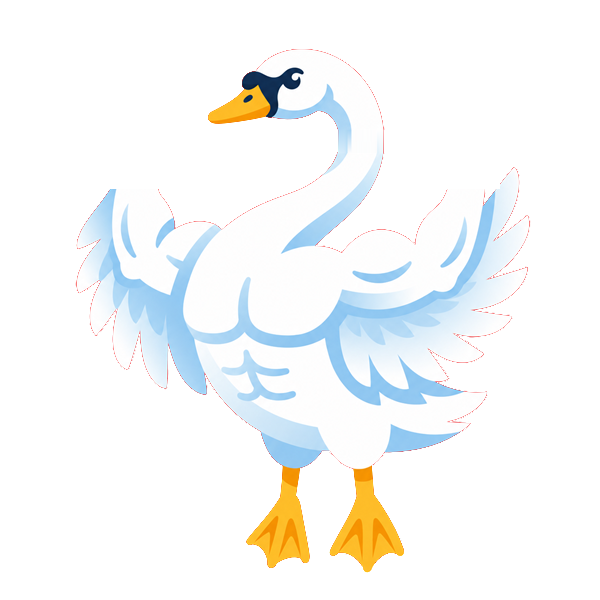
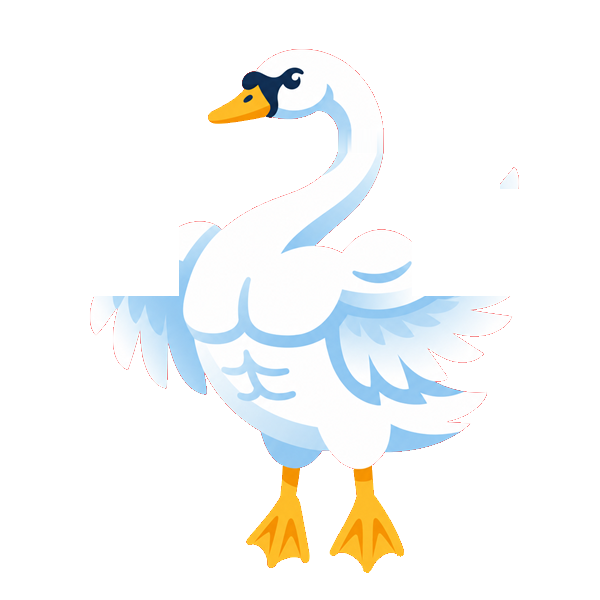
Swan-Klimmzug: Arme beugen sich (eigene Ebenen), sauberere Kanten an den Faeusten

Changed region(s): [[0.12, 0.3, 0.3, 0.51], [0.72, 0.3, 0.84, 0.51], [0.27, 0.36, 0.3, 0.39]]

diff --git a/css/styles.css b/css/styles.css
@@ -1252,18 +1252,46 @@ h2 {
     height: auto;
 }
 
+.art-swan-calisthenics .layer-swan-arm-left {
+    transform-origin: 23.5% 31.5%;
+}
+
+.art-swan-calisthenics .layer-swan-arm-right {
+    transform-origin: 77% 31.5%;
+}
+
+.project-card:hover .art-swan-calisthenics .art-layer,
+.detail-art:hover .art-swan-calisthenics .art-layer,
+.art-swan-calisthenics.is-playing .art-layer {
+    animation: 1.8s ease-in-out infinite;
+}
+
 .project-card:hover .art-swan-calisthenics .layer-swan-body,
 .detail-art:hover .art-swan-calisthenics .layer-swan-body,
 .art-swan-calisthenics.is-playing .layer-swan-body {
-    animation: swan-pullup 1.8s ease-in-out infinite;
+    animation-name: swan-pullup;
 }
 
+.project-card:hover .art-swan-calisthenics .layer-swan-arm-left,
+.project-card:hover .art-swan-calisthenics .layer-swan-arm-right,
+.detail-art:hover .art-swan-calisthenics .layer-swan-arm-left,
+.detail-art:hover .art-swan-calisthenics .layer-swan-arm-right,
+.art-swan-calisthenics.is-playing .layer-swan-arm-left,
+.art-swan-calisthenics.is-playing .layer-swan-arm-right {
+    animation-name: swan-arm-bend;
+}
+
+/* Arme (Faust bis Schulter, 111 px) werden um den Weg des Körpers (60 px) kürzer */
 @keyframes swan-pullup {
     0%, 8% { transform: translateY(0); }
-    40% { transform: translateY(-12%); }
-    46% { transform: translateY(-12.6%); }
-    56% { transform: translateY(-12%); }
+    40%, 56% { transform: translateY(-10%); }
     88%, 100% { transform: translateY(0); }
+}
+
+@keyframes swan-arm-bend {
+    0%, 8% { transform: scale(1, 1); }
+    40%, 56% { transform: scale(1.16, 0.46); }
+    88%, 100% { transform: scale(1, 1); }
 }
 
 @media (prefers-reduced-motion: reduce) {

diff --git a/index.html b/index.html
@@ -85,6 +85,8 @@
                     <a href="projekte/swan-calisthenics.html" class="card-art" tabindex="-1" aria-hidden="true">
                         <div class="art-layers art-swan-calisthenics">
                             <img src="assets/images/swan-bg.png" alt="" class="art-layer layer-swan-bg" width="600" height="600">
+                            <img src="assets/images/swan-arm-left.png" alt="" class="art-layer layer-swan-arm-left" width="600" height="600">
+                            <img src="assets/images/swan-arm-right.png" alt="" class="art-layer layer-swan-arm-right" width="600" height="600">
                             <img src="assets/images/swan-body.png" alt="" class="art-layer layer-swan-body" width="600" height="600">
                             <img src="assets/images/swan-bar.png" alt="" class="art-layer layer-swan-bar" width="600" height="600">
                             <img src="assets/images/swan-fists.png" alt="" class="art-layer layer-swan-fists" width="600" height="600">

diff --git a/projekte/swan-calisthenics.html b/projekte/swan-calisthenics.html
@@ -71,6 +71,8 @@
                 <span class="card-badge badge-live">Live</span>
                 <div class="art-layers art-swan-calisthenics">
                     <img src="../assets/images/swan-bg.png" alt="" class="art-layer layer-swan-bg" width="600" height="600">
+                    <img src="../assets/images/swan-arm-left.png" alt="" class="art-layer layer-swan-arm-left" width="600" height="600">
+                    <img src="../assets/images/swan-arm-right.png" alt="" class="art-layer layer-swan-arm-right" width="600" height="600">
                     <img src="../assets/images/swan-body.png" alt="" class="art-layer layer-swan-body" width="600" height="600">
                     <img src="../assets/images/swan-bar.png" alt="" class="art-layer layer-swan-bar" width="600" height="600">
                     <img src="../assets/images/swan-fists.png" alt="" class="art-layer layer-swan-fists" width="600" height="600">

diff --git a/tools/build-pages.js b/tools/build-pages.js
@@ -8,7 +8,7 @@ const CATEGORY_LABELS = { official: 'Offizielles Projekt', current: 'Aktuelles P
 const projects = [
     {
         slug: 'swan-calisthenics', category: 'official', featured: true, image: 'assets/images/swan-calisthenics.png',
-        layers: ['swan-bg', 'swan-body', 'swan-bar', 'swan-fists'],
+        layers: ['swan-bg', 'swan-arm-left', 'swan-arm-right', 'swan-body', 'swan-bar', 'swan-fists'],
         title: 'Swan Calisthenics',
         card: 'Website der Swan Calisthenics Community – offene Outdoor-Trainings im Street Workout Park Horgen, jeden Sonntag 18–20 Uhr.',
         lead: 'Die offizielle Website der Swan Calisthenics Community: kostenlose Outdoor-Trainings für alle Niveaus im Street Workout Park in Horgen – mit Mitgliederbereich, Blog und Vereinsseiten.',
